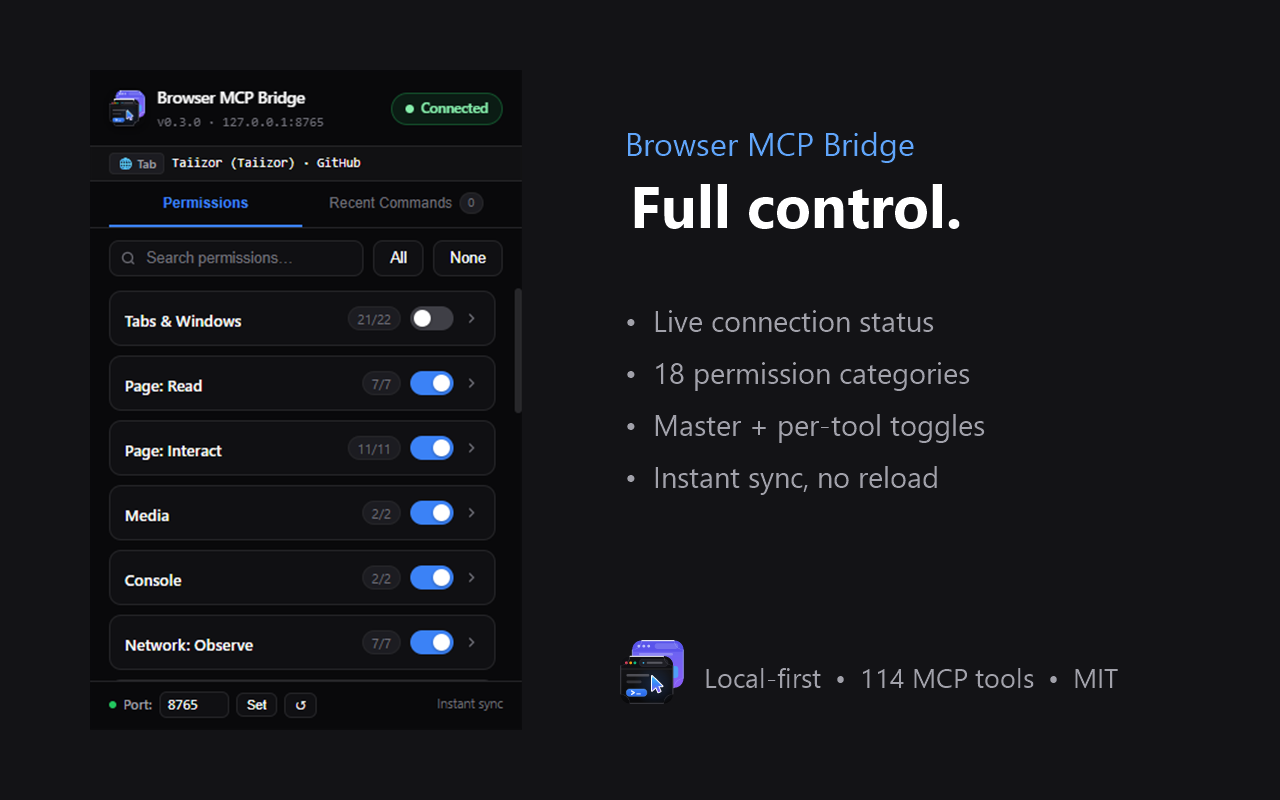
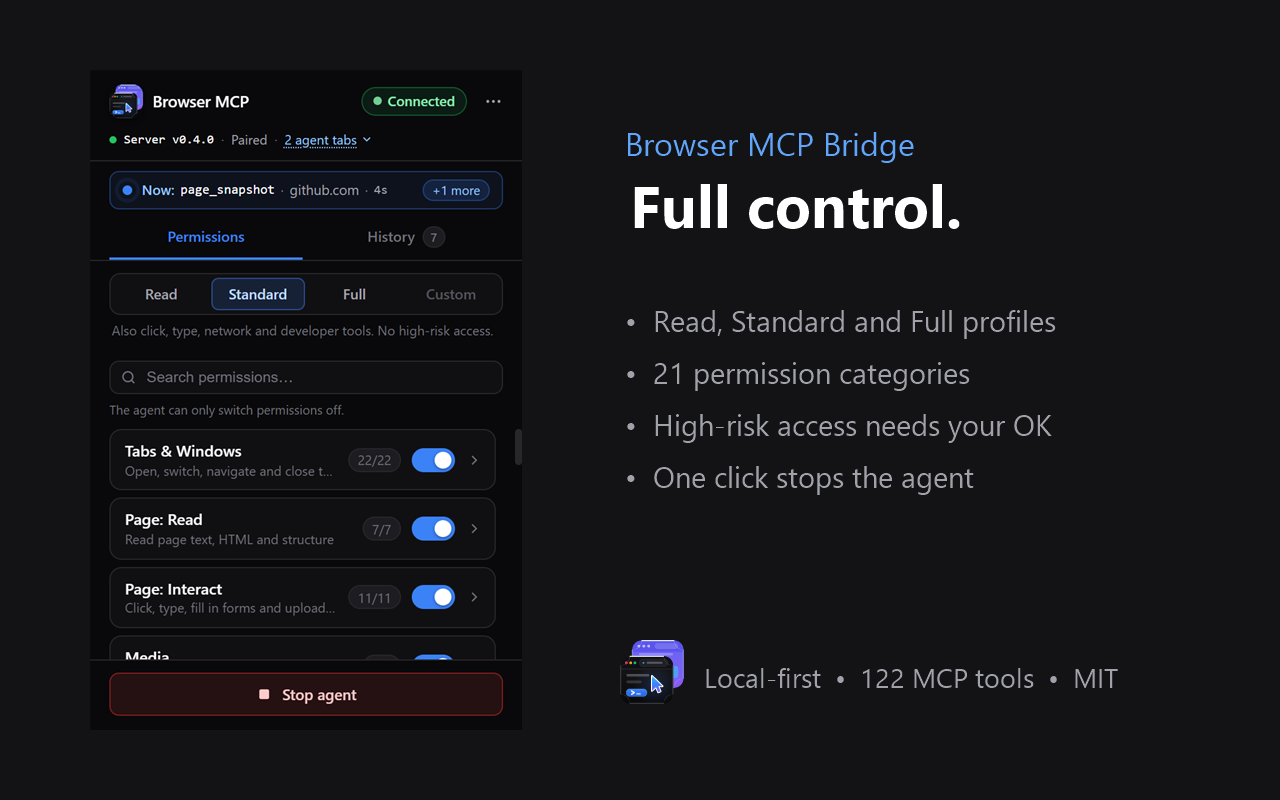
Document the redesigned popup and retake its screenshots
- docs/extension.md, configuration, installation and troubleshooting
  follow the new popup (settings menu, profiles, history, Stop agent).
- PRIVACY.md and SECURITY.md cover the history summaries, the
  "Off by agent" list and the popup-only Stop agent.
- New English popup screenshots at 2x, regenerated store images and
  social preview (122 tools, 21 categories); popup-recent-commands.png
  and store-2-auditlog.png are replaced by popup-history.png and
  store-2-history.png.

diff --git a/docs/extension.md b/docs/extension.md
@@ -3,7 +3,8 @@
 The extension (`extension/`, Chromium Manifest V3, Chrome/Edge/Brave/Opera 116+) executes every command. Its
 popup is where the user decides what the agent may do. Installation: [installation.md](installation.md#extension).
 
-- [Popup](#popup)
+- [Popup](#popup): [profiles](#access-profiles), [categories](#categories-and-switches), [history](#history),
+  [Stop agent](#stop-agent), [settings menu](#settings-menu)
 - [Permission categories](#permission-categories)
 - [Permission rules](#permission-rules)
 - [Agent tabs, dialogs and console capture](#agent-tabs-dialogs-and-console-capture)
@@ -11,29 +12,102 @@ popup is where the user decides what the agent may do. Installation: [installati
 
 ## Popup
 
-| Permissions | Recent Commands (Audit Log) |
-|---|---|
-| <img src="screenshots/popup-permissions.png" width="300" alt="Permission toggles"> | <img src="screenshots/popup-recent-commands.png" width="300" alt="Recent AI commands"> |
+| Permissions | History | Settings menu |
+|---|---|---|
+| <img src="screenshots/popup-permissions.png" width="260" alt="Permissions tab: status line, live activity, access profiles and permission categories"> | <img src="screenshots/popup-history.png" width="260" alt="History tab: commands grouped by site with the Errors filter"> | <img src="screenshots/popup-settings.png" width="260" alt="Settings menu: extension ID, bridge port, language and pairing"> |
+| **High-risk confirmation** | **Pairing notice** | **Switched off by the agent** |
+| <img src="screenshots/popup-confirm.png" width="260" alt="Confirmation before enabling high-risk categories"> | <img src="screenshots/popup-notice.png" width="260" alt="Pairing needed notice with Details and Re-pair"> | <img src="screenshots/popup-agent-off.png" width="260" alt="A permission marked Off by agent"> |
 
-- **Connection badge and pair bar:** `Connected`, `Connecting…`, `Action needed`, `Unverified server`,
-  `Update needed`, `Rejected` or `No server`, with an explanation and the fix when something is wrong, a
-  **Re-pair** button when the server asks to pair again, the server version once paired, and **Forget pairing**.
-  Every state is explained in [pairing.md](pairing.md#popup-states). The pairing key itself is kept in the
-  extension's own IndexedDB, out of reach of web pages and content scripts.
-- **Version and port:** the header shows the extension version and `127.0.0.1:<port>` (hover for the
-  extension id).
-- **Active tab bar:** title, URL and id of the focused tab.
-- **Search and filter** across all permissions and category names.
-- **Permissions / Recent Commands tabs.** The audit log streams up to 50 executed commands with duration,
-  time and status, with a one-click **Clear**.
-- **Master and individual switches:** **All** / **None**, or per action. Changes apply at once and are stored in
-  `chrome.storage.local`. The background worker answers popup operations only for the extension's own pages
-  (never for content scripts or web pages) and, while it runs, reverts a storage write that would turn a
-  switch back on.
-- **Port footer:** type a port and click **Set** (or press Enter); **↺** resets it to `8765`. The extension
+The popup answers two questions at a glance: what the agent can reach, and what it is doing right now. While it
+is open it refreshes the status every second and the history every 1.5 seconds. From top to bottom:
+
+- **Header:** the connection badge (`Connected`, `Connecting…`, `Pairing needed`, `Unknown server`,
+  `Update needed`, `Rejected`, `Disconnected` or `No server`) and the **⋯** button that opens the [settings menu](#settings-menu).
+  Every state is explained in [pairing.md](pairing.md#popup-states).
+- **Status line** under the header: `Server <version> · <pairing> · <agent tabs>`. The pairing part reads
+  `Paired` (hover for the full text), `Verifying the MCP server…` or `Not paired yet`, and is left out when
+  the badge and a notice already say what is wrong. The agent tab count (`No agent tabs`, `1 agent tab`, `<n> agent tabs`) opens a list of the
+  tabs the agent works in (title and site, up to 20); click one to bring its tab and window to the front. Tabs
+  used only as the active-tab fallback are not listed ([agent tabs](#agent-tabs-dialogs-and-console-capture)).
+- **Problem notice:** when the connection needs attention, a short title and one sentence (for example
+  **Pairing is closed**: "Start the server once with --pair."), at most one button (**Re-pair** when pairing again
+  fixes it, **Forget pairing** when the server rejected this browser's key, **Copy ID** when the server does not
+  recognize the extension) and a **Details** link that opens the
+  matching section of [pairing.md](pairing.md#popup-states) with the full fix.
+- **Live activity strip**, only while commands run: a pulsing dot and `Now: <action> · <site> · <seconds>s` for
+  the newest command, ticking every second, plus `+<n> more` when several run at once.
+- **Permissions** and **History** tabs (the History tab shows the number of entries), then the
+  [Stop agent](#stop-agent) button at the bottom.
+
+### Access profiles
+
+The Permissions tab starts with four profiles. The highlighted one is derived from the current switches, so it
+always shows what the agent can actually reach:
+
+| Profile | Enables |
+|---|---|
+| **Read** | `tabs_list`, `tab_create`, `tab_activate`, `tab_navigate`, `tab_reload`, `tab_back`, `tab_forward`, `window_list`, `frame_list`, `frame_focus`, `frame_clear`, `tab_group_list`; every **Page: Read** action; `page_screenshot`; `console_get`; `page_metrics` and `perf_web_vitals`. Everything else is off: nothing is clicked or typed. |
+| **Standard** | Every action of every category that is not high risk; the high-risk categories are off. |
+| **Full** | Everything, including the high-risk categories. |
+| **Custom** | Any other selection. It only shows that the switches match no profile and cannot be clicked. |
+
+Clicking a profile changes only the switches that differ from it, in one write.
+
+**High risk:** Power (arbitrary code), Cookies, Storage, Sessions & State, Clipboard, Browsing Data and System
+carry a **High risk** badge. Any change that would switch on a disabled action of one of them (a profile, a
+category switch or a single switch) first asks **Allow high-risk access?** and names the categories; **Cancel**
+leaves the switches as they were. Switching off never asks.
+
+### Categories and switches
+
+- **Search** filters by action name, category name and category description, and expands the matching
+  categories.
+- **Category cards** are collapsed by default. The head shows the category name, the **High risk** badge where it
+  applies, a one-line description, how many actions are on (`on/total`), a switch for the whole category and a
+  chevron that expands it into one switch per action.
+- **Off by agent:** an action the agent switched off itself (`permissions_set`) carries this badge. It goes away
+  when you change that switch yourself, or after **Stop agent**. The badge is only a reminder: it never switches
+  anything back on.
+- Changes apply at once and are stored in `chrome.storage.local`. The background worker answers popup operations
+  only for the extension's own pages (never for content scripts or web pages) and, while it runs, reverts a
+  storage write that would turn a switch back on.
+
+### History
+
+The History tab keeps the last 50 commands, in the extension's memory only (lost when the browser or the
+extension's background worker restarts):
+
+- grouped by the site of the tab the command acted on (**No page** when there was none), the group with the
+  newest command first, each with its number of commands;
+- one row per command: a status dot, the action, a short summary, the duration and the time. Depending on the
+  command the summary is the selector, the number of characters typed or evaluated (never the text or code),
+  the number of fields or files, the target site or cookie domain, a key name such as `Enter` or the CDP
+  method. The summary never contains typed text, values, code or file paths;
+- click a row for its details: the full error text, the tab id and the summary. The error text of a failed
+  command is kept as the extension reported it, so it can quote a page URL, a value the command was given (such
+  as the option a `dom_select` did not find) or a JavaScript exception message;
+- **All** / **Errors** filter the list; **Clear** empties it.
+
+### Stop agent
+
+**Stop agent** at the bottom of the popup switches every permission off at once and cancels the commands that are
+running (they answer `cancelled`); debugger sessions end as with any switch turned off. It does not ask for
+confirmation and shows **Everything is off** when done. Switch back on what you need, or pick a profile.
+
+### Settings menu
+
+The **⋯** button in the header opens the menu; Escape or a click outside closes it.
+
+- **Extension:** the extension version and id, with **Copy**.
+- **Bridge port:** type a port and click **Set** (or press Enter); **↺** resets it to `8765`. The extension
   reconnects at once.
 - **Language:** English, Türkçe, Español, Deutsch, Français, Português, Italiano, Русский, 日本語, 한국어, or **Auto**
   (browser language).
+- **Pairing:** **Re-pair** accepts the server's next pairing offer for 2 minutes and reconnects
+  ([pairing.md](pairing.md#re-pair)). **Forget pairing** asks for confirmation, then deletes this browser's
+  pairing key; the agent cannot connect again until a server offers pairing (first setup, or a server started
+  with `--pair`; see [pairing.md](pairing.md#forget-pairing)). The pairing key itself is kept in the extension's
+  own IndexedDB, out of reach of web pages and content scripts.
 
 ## Permission categories
 
@@ -66,7 +140,8 @@ popup is where the user decides what the agent may do. Installation: [installati
 ## Permission rules
 
 - **The agent can only disable.** `permissions_set` turns an action off (self-restriction, synced to the
-  popup); `enabled: true` is rejected. Only the user can turn an action back on, in the popup.
+  popup, where it is marked **Off by agent**); `enabled: true` is rejected. Only the user can turn an action
+  back on, in the popup.
 - **Allow-list gate.** The extension runs only actions it knows from its catalog; anything else fails with
   `Unknown command: <action>`.
 - **New actions respect a switched-off category.** An action added by an update starts disabled when every

diff --git a/SECURITY.md b/SECURITY.md
@@ -4,8 +4,8 @@
 
 | Version | Supported          |
 | ------- | ------------------ |
-| 0.3.x   | :white_check_mark: |
-| < 0.3   | :x:                |
+| 0.4.x   | :white_check_mark: |
+| < 0.4   | :x:                |
 
 Only the latest minor release receives security fixes.
 
@@ -251,14 +251,14 @@ Further rules:
 | ---- | ------ | ------- | ------- | ----------- |
 | `4001` | `auth-required` | server | Origin-less client that did not prove the bridge token (or sent a wrong legacy token) | - |
 | `4002` | `protocol-mismatch:server=3,ext=<n>` | server | the extension speaks another protocol (`<n>` is `none` when missing) | Update needed |
-| `4003` | `untrusted-extension:<id>` | server | extension id not trusted and trust on first use closed | Rejected |
-| `4004` | `pairing-closed` | server | no key for this install and the pairing window is closed | Rejected (Pairing is closed) |
-| `4005` | `auth-failed` | server | the extension's proof did not match the stored key | Rejected |
+| `4003` | `untrusted-extension:<id>` | server | extension id not trusted and trust on first use closed | Rejected (Extension not recognized) |
+| `4004` | `pairing-closed` | server | no key for this install and the pairing window is closed | Pairing needed (Pairing is closed) |
+| `4005` | `auth-failed` | server | the extension's proof did not match the stored key | Pairing needed (Forget pairing) |
 | `4006` | `replaced` | server | the same install completed a newer handshake | - |
-| `4008` | `handshake-timeout` | server | handshake not finished within 5 s | Rejected (code shown) |
+| `4008` | `handshake-timeout` | server | handshake not finished within 5 s | Disconnected (Connection closed) |
 | `1008` | `bad-hello` | server | malformed v3 `hello` (install id or nonce) | No server |
-| `4100` | `pair-declined` | extension | pairing offer while the extension holds a key and no **Re-pair** was clicked | Action needed (Re-pair) |
-| `4101` | `server-auth-failed` | extension | wrong or missing server proof (also one bound to another port), malformed frame, second challenge/pair, or `welcome` before the proof | Unverified server |
+| `4100` | `pair-declined` | extension | pairing offer while the extension holds a key and no **Re-pair** was clicked | Pairing needed (Re-pair) |
+| `4101` | `server-auth-failed` | extension | wrong or missing server proof (also one bound to another port), malformed frame, second challenge/pair, or `welcome` before the proof | Unknown server |
 | `4102` | `server-outdated` | extension | `welcome` without a completed v3 handshake (a 0.3.x server) | Update needed |
 
 After `4001`-`4005` and `4100`-`4102` the extension retries every 30 s;
@@ -318,14 +318,37 @@ remedy of each state, see [docs/pairing.md](docs/pairing.md).
 - **The agent can only restrict itself.** Over the bridge, `perm_set` can disable
   permissions but never re-enable them; turning a switch back on is only
   possible in the popup. The background worker answers popup operations
-  (`mcp-status`, `mcp-perms-set`, `mcp-repair`, `mcp-forget-pairing`, ...) only
-  for the extension's own pages, never for content scripts or web pages. While
-  it runs, it reverts any `chrome.storage.local` write that would turn a switch
-  back on. `chrome.storage.local` (switches, port) is set to
+  (`mcp-status`, `mcp-perms-set`, `mcp-stop-all`, `mcp-repair`,
+  `mcp-forget-pairing`, ...) only for the extension's own pages, never for
+  content scripts or web pages. While it runs, it reverts any
+  `chrome.storage.local` write that would turn a switch back on.
+  `chrome.storage.local` (switches, port) is set to
   `TRUSTED_CONTEXTS`, which Chromium honours only from version 140; on 116-139
   content scripts can still read and write it, so nothing read from it is
   trusted blindly: switches only tighten, a stored port is applied only at
   start-up, and the pairing key lives in IndexedDB instead.
+- **Stop agent is popup-only.** The popup's **Stop agent** button sends
+  `mcp-stop-all`, which disables every action in the catalog (debugger
+  sessions are torn down as with any switch turned off) and aborts every
+  running command (they answer `cancelled`). Like every popup operation it is
+  accepted only from the extension's own pages; neither the bridge nor a
+  content script or web page can send it.
+- **"Off by agent" is informational.** Actions the agent disabled with
+  `perm_set` are remembered so the popup can mark them, in memory and in
+  `chrome.storage.local` under `mcpAgentDisabled` (action names only, checked
+  against the catalog when loaded). The marker is shown only on switches that
+  are off, and it cannot re-enable anything. The in-memory set is
+  authoritative: writes to the key from elsewhere are ignored, and the
+  background worker immediately rewrites the key with its in-memory set. A
+  popup change to an action removes its marker, and
+  `mcp-stop-all` clears them all.
+- **High-risk categories need a confirmation.** When a popup change (a
+  profile, a category switch or a single switch) would enable a disabled action
+  of a high-risk category (Power, Cookies, Storage, Sessions & State,
+  Clipboard, Browsing Data, System), the popup first asks the user to confirm
+  and names the categories; cancelling leaves the switches unchanged.
+  Disabling never asks. This guards against slips in the popup; the switches
+  in the background worker remain the enforcement point.
 - The MCP server hides tools whose actions are switched off, but the extension
   is the enforcement point.
 

diff --git a/docs/troubleshooting.md b/docs/troubleshooting.md
@@ -6,7 +6,7 @@ which most clients show as the MCP server log. The popup badge tells the extensi
 
 - [The client cannot start the server](#the-client-cannot-start-the-server)
 - [The popup says No server](#the-popup-says-no-server)
-- [The popup says Rejected, Action needed, Unverified server or Update needed](#the-popup-says-rejected-action-needed-unverified-server-or-update-needed)
+- [The popup says Pairing needed, Unknown server, Update needed or Rejected](#the-popup-says-pairing-needed-unknown-server-update-needed-or-rejected)
 - [Port problems](#port-problems)
 - [A tool is missing or "Tool ... is not enabled"](#a-tool-is-missing-or-tool--is-not-enabled)
 - ["Permission disabled in extension"](#permission-disabled-in-extension)
@@ -42,28 +42,30 @@ which most clients show as the MCP server log. The popup badge tells the extensi
 Nothing accepts connections on the popup's port.
 
 - The server runs only while an MCP client runs it: start the client (or a session in it) first.
-- Server and popup must use the same port (popup footer vs. `--port` / `BROWSER_MCP_PORT`; the generic `PORT` is
-  ignored on purpose). See [configuration.md](configuration.md#bridge-port).
+- Server and popup must use the same port (**Bridge port** in the popup's **⋯** menu vs. `--port` /
+  `BROWSER_MCP_PORT`; the generic `PORT` is ignored on purpose). See
+  [configuration.md](configuration.md#bridge-port).
 - The server's stderr shows `primary bridge on :<port>` or `joining as satellite client` once the bridge is up.
 
-## The popup says Rejected, Action needed, Unverified server or Update needed
+## The popup says Pairing needed, Unknown server, Update needed or Rejected
 
-The server or the extension refused the handshake. The popup explains which and what to do; every state and
-close code is in [pairing.md](pairing.md#popup-states). The most common cases:
+The server or the extension refused the handshake. The popup notice names the problem in one sentence, and its
+**Details** link opens the matching section of [pairing.md](pairing.md#popup-states), where every state and close
+code is explained. The most common cases:
 
-| Popup | Usual cause | Fix |
+| Popup notice | Usual cause | Fix |
 |---|---|---|
-| **Rejected** with an extension id and a Copy button (4003) | Unpacked build from a new folder: new id | Trust the id and pair once: [adding another install](pairing.md#adding-another-browser-or-install) |
-| **Rejected**, "Pairing is closed" (4004) | Second browser / profile / reinstall | Start the server once with `--pair` |
-| **Action needed** (4100) | You reset the server's config directory | Click **Re-pair** if you did that yourself |
-| **Rejected** "pairing proof" (4005) / **Unverified server** (4101) | Keys differ between the two sides, or (4101) a program that is not your server holds the port | **Forget pairing** + `--pair`, or delete `extension-keys.json` and Re-pair; first check what listens on the port |
-| **Update needed** (4002 / 4102) | Server and extension from different releases | Update the side the popup names |
+| **Extension not recognized** (4003) | Unpacked build from a new folder: new id | Click **Copy ID**, then trust the id and pair once: [adding another install](pairing.md#adding-another-browser-or-install) |
+| **Pairing is closed** (4004) | Second browser / profile / reinstall | Start the server once with `--pair` ([details](pairing.md#pairing-is-closed)) |
+| **Pairing needed** (4100) | You reset the server's config directory | Click **Re-pair** if you did that yourself ([details](pairing.md#pairing-needed)) |
+| **Pairing needed** (4005) / **Unknown server** (4101) | Keys differ between the two sides, or (4101) a program that is not your server holds the port | **Forget pairing** + `--pair`, or delete `extension-keys.json` and Re-pair; first check what listens on the port ([details](pairing.md#unknown-server)) |
+| **Versions do not match** (4002 / 4102) | Server and extension from different releases | Update the side the popup names ([details](pairing.md#versions-do-not-match)) |
 
 ## Port problems
 
 - **`EACCES`** or "binding the port failed although nothing accepts connections": on Windows the port may lie in
   an excluded range (`netsh interface ipv4 show excludedportrange protocol=tcp`). Choose another port with
-  `--port` and set the same one in the popup footer.
+  `--port` and set the same one in the popup's **⋯** menu (**Bridge port**).
 - **The port belongs to something else** (another program answering on 8765): the server cannot become primary
   or join it. Pick another port on both sides.
 - **Several clients:** only the first process owns the port; the others are satellites. That is expected

diff --git a/PRIVACY.md b/PRIVACY.md
@@ -95,7 +95,15 @@ worker restarts):
 - up to 1,000 recent network entries, 1,000 console messages and 1,000 dialog events,
   cleared with `network_clear`, `console_clear` and `dialog_clear`; while a capture switch
   is off, nothing new of that kind is recorded and the matching read tool is blocked;
-- a command audit log (up to 50 entries) shown in the popup, cleared with **Clear**;
+- a command history (up to 50 entries) shown in the popup, cleared with **Clear**: for
+  each command the action, whether it succeeded (with the error text when it failed),
+  its duration and time, the tab ID, the hostname of the tab it acted on, and a short
+  summary such as the selector, the length of typed text or code, the number of files,
+  the target hostname or cookie domain, the name of a special key (such as `Enter`) or
+  a DevTools (CDP) method name. The summary never contains typed text, field values,
+  cookie or storage values, clipboard text, code, file paths, or URL paths and queries.
+  The error text is kept as the extension reported it and can quote a page URL, a value
+  the command was given or a JavaScript exception message;
 - tab audio recordings until your assistant collects them (unclaimed finished recordings
   are discarded after 30 minutes);
 - finished performance traces until the MCP server has read them, at most 5 minutes
@@ -103,10 +111,12 @@ worker restarts):
 
 In the extension's browser storage (web pages cannot read either store):
 
-- `chrome.storage.local`: the port, the permission switches, the popup language, and the
-  list of permission names the popup last showed (`mcpKnownActions`, used to keep new
-  permissions of a category you turned off switched off after an update). From Chromium 140
-  only the extension's own pages and background worker can read it; on older versions the
+- `chrome.storage.local`: the port, the permission switches, the popup language, the list
+  of permission names the popup last showed (`mcpKnownActions`, used to keep new
+  permissions of a category you turned off switched off after an update), and the names of
+  the permissions your assistant switched off itself (`mcpAgentDisabled`, action names
+  only, used for the popup's **Off by agent** badge). From Chromium 140 only the
+  extension's own pages and background worker can read it; on older versions the
   extension's content scripts technically can too, which is why the pairing key is not kept
   there;
 - the extension's own IndexedDB (database `browser-mcp`), which only the extension's pages

diff --git a/README.md b/README.md
@@ -26,7 +26,7 @@ screenshots, PDF, tab audio and raw CDP, with every action behind a switch in th
 - **DevTools power.** Network requests, HAR export, mocking and throttling, console capture, viewport /
   media / CPU emulation, Web Vitals, performance traces and network-idle waits.
 - **Cancellation.** Cancelling an MCP call stops the command in the browser (`page_wait`, `dom_type`, traces ...).
-- **You stay in control.** 21 permission categories with per-action switches and an audit log. The agent can
+- **You stay in control.** Access profiles (Read / Standard / Full), 21 permission categories with per-action switches, a command history and a Stop agent button. The agent can
   switch actions off, never on.
 - **Authenticated local bridge.** Loopback only, protocol v3: each extension install and the server prove a
   shared pairing key to each other on every connection; satellites and local scripts prove the per-run bridge
@@ -54,7 +54,7 @@ extension/  (Chromium MV3, 116+)
   │                   throttling, emulation, tracing), cancellation, session teardown
   ├── content.js    → DOM snapshot & refs, selectors, click/type/fill, page_wait, storage & IndexedDB
   ├── offscreen.js  → clipboard, tab audio recording
-  └── popup.js      → permission switches, audit log, port, pairing status (Re-pair / Forget pairing)
+  └── popup.js      → profiles, permission switches, live activity, history, Stop agent, settings menu
 ```
 
 ## Quick Start
@@ -138,8 +138,9 @@ Start the client with the browser open: on a fresh setup the first extension ins
 trusted and paired automatically, and the popup badge turns **Connected**. From then on the server and that
 install prove a shared pairing key to each other on every connection, so another install (a second browser
 or profile, a moved unpacked folder) is refused until you start the server once with `--pair` (or
-`BROWSER_MCP_PAIR=1`; add `--extension-id <id>` for an unpacked build with a new id). If the popup shows **Rejected**, **Action needed**, **Unverified server** or
-**Update needed**, follow [docs/pairing.md](docs/pairing.md).
+`BROWSER_MCP_PAIR=1`; add `--extension-id <id>` for an unpacked build with a new id). If the popup shows a
+problem notice such as **Pairing needed** or **Unknown server**, its **Details** link opens the fix in
+[docs/pairing.md](docs/pairing.md#popup-states).
 
 ## Documentation
 

diff --git a/docs/configuration.md b/docs/configuration.md
@@ -23,7 +23,7 @@ list.
 | `--browser <name>`, `-b <name>`, `--browser=<name>`, `-b=<name>` | Browser for auto-launch: `chrome`, `edge`, `brave`, `opera` (or a path); overrides `BROWSER`. An empty value or one starting with `-` exits with code 2 (`Missing browser name for <flag> ...`) |
 | `--extension-id <id>`, `--extension-id=<id>` | Trust an extension id (repeatable, comma separated, `*` = any id); an invalid id exits with code 2 |
 | `--pair` | Open the pairing window for one new extension install, for 10 minutes after start ([pairing.md](pairing.md#adding-another-browser-or-install)) |
-| `--allow-legacy-extension` | Accept protocol-2 (older 0.3.x) extensions over an **unauthenticated** link; logs a warning ([pairing.md](pairing.md#version-mismatch)) |
+| `--allow-legacy-extension` | Accept protocol-2 (older 0.3.x) extensions over an **unauthenticated** link; logs a warning ([pairing.md](pairing.md#legacy-mode)) |
 | `--toolsets <list>`, `--toolsets=<list>` | Toolsets listed from the start: `core` (default), `all`, or category ids, comma separated; repeatable, lists are merged ([toolsets.md](toolsets.md)). An empty value or one starting with `-` exits with code 2 |
 | `-h`, `--help` | Print usage and exit |
 | `-v`, `--version` | Print the version and exit |
@@ -75,8 +75,8 @@ Server and extension must use the same port. Server precedence: `--port` → `BR
   (`netsh interface ipv4 show excludedportrange protocol=tcp`).
 - "Already in use" means another `browser-mcp` process owns the port: this process joins it as a satellite
   ([bridge-protocol.md](bridge-protocol.md)).
-- **Extension side:** type the port in the popup footer and click **Set** (or press Enter); **↺** resets it to
-  `8765`. The extension reconnects at once, without a reload.
+- **Extension side:** open the popup's **⋯** menu, type the port under **Bridge port** and click **Set** (or
+  press Enter); **↺** resets it to `8765`. The extension reconnects at once, without a reload.
 
 ## Project .env files
 

diff --git a/CONTRIBUTING.md b/CONTRIBUTING.md
@@ -88,10 +88,10 @@ Load `extension/` via `chrome://extensions` (Developer Mode → Load unpacked). 
 build has its own extension ID (it depends on the folder) and is its own install, so:
 
 - with a fresh config directory it pairs automatically on the first connection;
-- otherwise the popup shows **Rejected** (untrusted ID, `4003`) or **Pairing is closed**
-  (`4004`). Start the server once with `--extension-id <id> --pair` (the ID is shown in the
-  popup), then drop both flags: the ID is saved in `trusted-extensions.json` and the key in
-  `extension-keys.json`.
+- otherwise the popup shows **Extension not recognized** (`4003`) or **Pairing is closed**
+  (`4004`). Start the server once with `--extension-id <id> --pair` (**Copy ID** in the
+  notice copies the ID), then drop both flags: the ID is saved in `trusted-extensions.json`
+  and the key in `extension-keys.json`.
 
 See [docs/pairing.md](docs/pairing.md) for every popup state. Reloading the extension keeps
 its pairing. After changing server code, restart every browser-mcp process on the port
@@ -206,7 +206,8 @@ same pull request:
   user which side to update, instead of a silent failure;
 - keep the frame list and close codes in sync: the header comments of both files,
   `refusalText` in `bridge.ts`, `CLOSE_PAIR_STATES` and `SLOW_RETRY_CODES` in
-  `background.js`, `PAIR_STATES` and the notices in `popup.js`, and the tables in
+  `background.js`, `PAIR_STATES` and the notices in `popup.js` (each notice's **Details**
+  link opens its heading in docs/pairing.md), and the tables in
   [SECURITY.md](SECURITY.md), [docs/pairing.md](docs/pairing.md) and
   [docs/bridge-protocol.md](docs/bridge-protocol.md) (client authentication and the script
   example);

diff --git a/docs/installation.md b/docs/installation.md
@@ -2,7 +2,7 @@
 
 Browser MCP has two parts that must come from the same release: the MCP server (`mcp-server/`), which your
 MCP client starts over stdio, and the browser extension (`extension/`), which connects to the server on
-`ws://127.0.0.1:8765`. Both speak bridge protocol 3 (see [pairing.md](pairing.md#version-mismatch)).
+`ws://127.0.0.1:8765`. Both speak bridge protocol 3 (see [pairing.md](pairing.md#versions-do-not-match)).
 
 - [Requirements](#requirements)
 - [Server: standalone binary](#option-a-standalone-binary)
@@ -151,8 +151,8 @@ An unpacked extension gets an id derived from its folder path. Loading it from a
 machine, gives a new id that the server has to trust and pair again: see
 [pairing.md](pairing.md#adding-another-browser-or-install).
 
-The extension connects to port 8765 by default. To use another port, set it in the popup footer and start the
-server with the same `--port` ([configuration](configuration.md#bridge-port)).
+The extension connects to port 8765 by default. To use another port, set it in the popup's **⋯** menu
+(**Bridge port**) and start the server with the same `--port` ([configuration](configuration.md#bridge-port)).
 
 ## Check the installation
 
